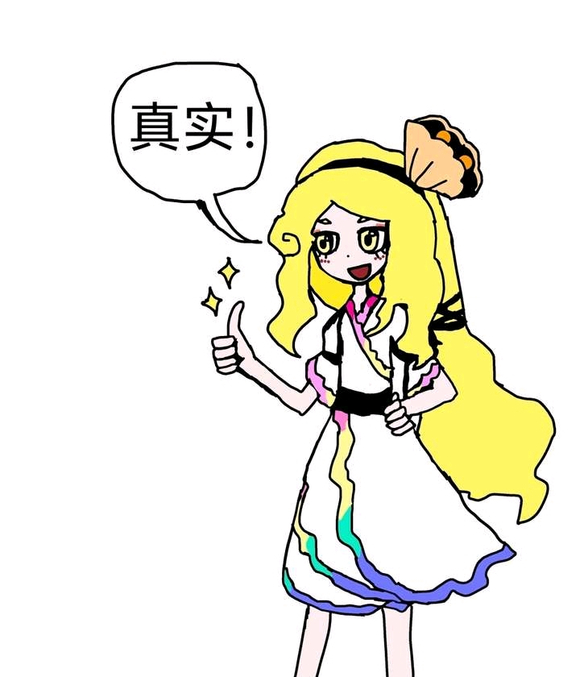
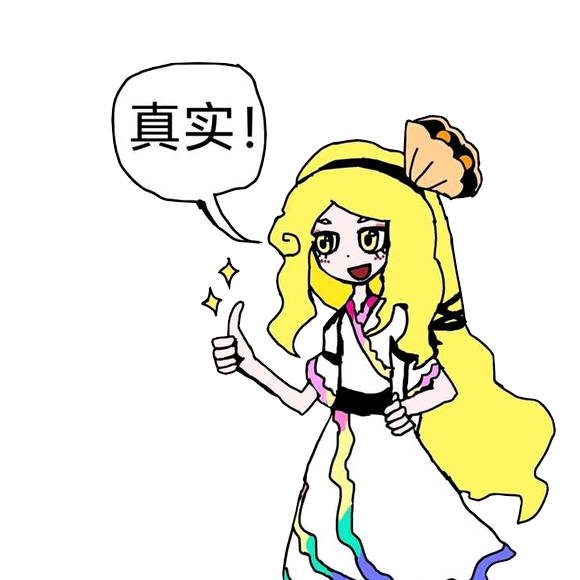
格式微调 -略微减小了识别结果里，所有文字的字号，以减少换行现象 -裁剪了渡里妮娜“此乃真实！”的图片，现在她与其他立绘是相同的1：1长宽比了

Changed region(s): [[0.1862, 0.0621, 0.9621, 1.0], [0.7759, 0.9, 0.9, 1.0]]

diff --git a/frontend/show/show.html b/frontend/show/show.html
@@ -70,27 +70,27 @@
 							<p
 								class="result-nameCN"
 								id="result-top1-nameCN"
-								style="font-size: 3vw"
+								style="font-size: 2.4vw"
 							>
 								？？？
 							</p>
 							<p
 								class="result-nameEN"
 								id="result-top1-nameEN"
-								style="font-size: 2vw"
+								style="font-size: 1.6vw"
 							>
 								？？？
 							</p>
 							<hr />
 							<span
 								class="result-similarity"
-								style="font-size: 2vw"
+								style="font-size: 1.6vw"
 								>相似度：</span
 							>
 							<span
 								class="result-similarity"
 								id="result-top1-similarity-value"
-								style="font-size: 2vw"
+								style="font-size: 1.6vw"
 								>??%</span
 							>
 						</div>

diff --git a/frontend/show/show.css b/frontend/show/show.css
@@ -108,13 +108,13 @@ body {
 }
 
 .result-nameCN {
-	font-size: 1.5vw;
+	font-size: 1.2vw;
 	/* font-weight: bold; */
 }
 
 .result-nameEN,
 .result-similarity {
-	font-size: 1vw;
+	font-size: 0.8vw;
 }
 
 .result-nameEN {
